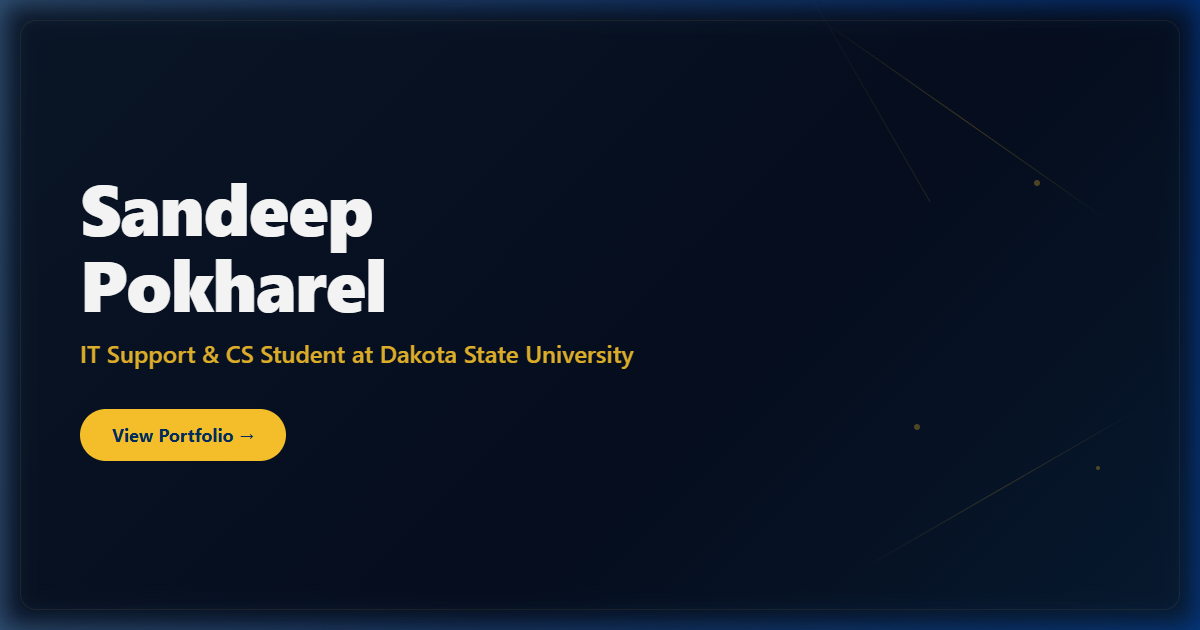
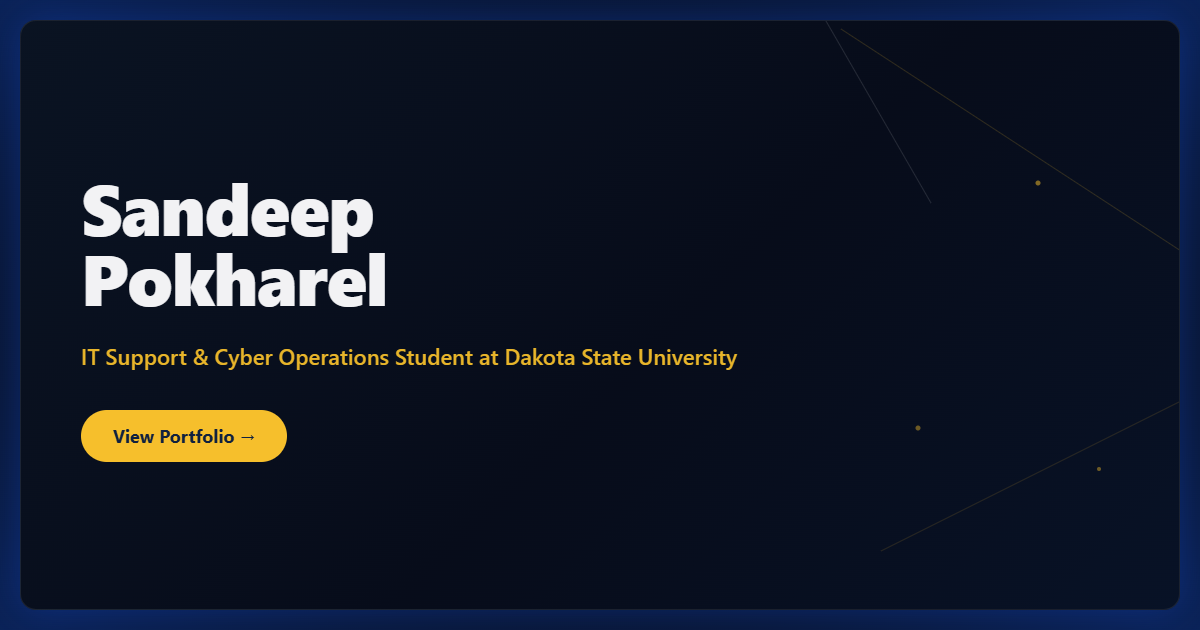
feat(content): switch major to Cyber Operations with Network Security Administration minor
- Degree, bio, hero tagline and education now read B.S. Cyber Operations
  with a minor in Network Security Administration; coursework updated.
- Add a full-width "Security & Networking" skills card and a one-line
  "Security" resume row (Kali, Wireshark, Nmap, Packet Tracer, Metasploit,
  Burp Suite, Splunk, Suricata, Cowrie; Zeek on the web card only).
- Flag that group as coursework so the chatbot does not present it as
  personal-project experience; update the opportunities line.
- Interests, tags, Contact internship copy, page metadata, JSON-LD and the
  Open Graph image updated to match.
- CLAUDE.md: new major, and the coursework exception to the skills rule.

Resume still prints to exactly one page.

diff --git a/src/data/skills.js b/src/data/skills.js
@@ -3,9 +3,21 @@
 //  Sourced from actual project usage across Molecular
 //  Zettelkasten, SandeepCloud, DQA Suite, LLM-Wiki, and
 //  Portfolio. No "learning" labels — these are all used skills.
+//  Exception: "Security & Networking" comes from Cyber Operations
+//  coursework labs, not personal projects. `coursework` makes the
+//  chatbot say so; `wide` renders it full-width so the 3-column
+//  grid has no orphan card.
 // ============================================================
 
 export const skills = [
+  {
+    category: "Security & Networking",
+    icon: "🛡",
+    wide: true,
+    coursework: true,
+    items: ["Kali Linux", "Wireshark", "Nmap", "Cisco Packet Tracer", "Metasploit", "Burp Suite", "Splunk", "Suricata", "Zeek", "Cowrie"],
+    highlight: ["Kali Linux", "Wireshark", "Nmap", "Cowrie"],
+  },
   {
     category: "Languages",
     icon: "⌨",
@@ -45,13 +57,18 @@ export const skills = [
 ];
 
 // ============================================================
-//  DATA — Resume-only Skills (6 strict 1-line categories)
+//  DATA — Resume-only Skills (7 strict 1-line categories)
 //  Used exclusively by ResumeView.jsx.
 // ============================================================
 export const resumeSkills = [
   {
     category: "Languages",
     items: ["JavaScript / TypeScript", "PowerShell", "Python", "Java", "C/C++", "SQL", "HTML / CSS"],
+  },
+  {
+    category: "Security",
+    // Short names keep this row on one line; the web card spells them out.
+    items: ["Kali", "Wireshark", "Nmap", "Packet Tracer", "Metasploit", "Burp Suite", "Splunk", "Suricata", "Cowrie"],
   },
   {
     category: "Tools",
@@ -78,21 +95,21 @@ export const resumeSkills = [
 export const about = {
   name: "Sandeep Pokharel",
   title: "IT Support Desk Technician",
-  subtitle: "Computer Science · Dakota State University",
+  subtitle: "Cyber Operations · Dakota State University",
   bio: [
-    "Computer Science sophomore at Dakota State University, originally from Kathmandu, Nepal. I like building things that work and figuring out why things break.",
+    "Cyber Operations sophomore at Dakota State University, originally from Kathmandu, Nepal. I like building things that work and figuring out why things break.",
     "My day job is IT Support at DSU \u2014 deploying hardware, troubleshooting networks, managing Intune enrollment, and making sure students and faculty can actually get work done. I also run the live broadcasts for DSU athletics and esports — switching cameras, mixing audio, and keeping the stream up while the game is happening. It's hands-on, fast-paced, and I learn something new every shift.",
     "After hours, I build my own infrastructure. Self-hosted cloud storage on AWS, an AI platform that talks to my personal notes, automation tools for the helpdesk \u2014 all containerized, all deployed on servers I manage. The projects section below has the details.",
   ],
   details: [
-    { label: "Education", val: "B.S. Computer Science", sub: "Dakota State University · Fall 2025 to Present" },
+    { label: "Education", val: "B.S. Cyber Operations", sub: "Dakota State University · Fall 2025 to Present" },
     { label: "Current Role", val: "IT Support Desk Technician", sub: "DSU Information Technology Services · May 2026 to Present" },
     { label: "Also At DSU", val: "Multimedia Streaming Technician", sub: "DSU Information Technology Services · August 2026 to Present" },
     { label: "Location", val: "Madison, South Dakota", sub: "Originally from Kathmandu, Nepal" },
     { label: "Languages", val: "English · Nepali · Hindi", sub: "Trilingual" },
-    { label: "Interests", val: "Web Development · Cloud · AI", sub: "Building and shipping personal projects" },
+    { label: "Interests", val: "DevOps · Cloud · DevSecOps · SOC · AI · Network Engineering", sub: "Career focus areas" },
   ],
-  tags: ["Problem Solver", "IT Support", "Self-Taught Builder", "Cloud Enthusiast", "Fast Learner", "Cross-Cultural Communicator"],
+  tags: ["Problem Solver", "IT Support", "Security-Minded", "Self-Taught Builder", "Cloud Enthusiast", "Fast Learner", "Cross-Cultural Communicator"],
   contact: {
     email: "pokharelsandeep333@gmail.com",
     linkedin: "https://www.linkedin.com/in/sandeeppokharel333",
@@ -151,13 +168,13 @@ export const experience = [
 // ============================================================
 export const education = [
   {
-    degree: "B.S. Computer Science",
+    degree: "B.S. Cyber Operations",
     school: "Dakota State University",
     period: "Fall 2025 to Present",
     location: "Madison, SD",
     bullets: [
-      "Pursuing a B.S. in Computer Science with a minor in Mathematics (4.0 GPA), focused on cloud and AI.",
-      "Relevant Coursework: Software Engineering, AI, Data Structures, OOP, Systems Analysis & Design, Calculus",
+      "Pursuing a B.S. in Cyber Operations with a minor in Network Security Administration, maintaining a 4.0 GPA, with interests in DevOps, cloud, DevSecOps, security operations (SOC), AI, and network engineering.",
+      "Relevant Coursework: Networking, Reverse Engineering, Malware Analysis, Routing and Switching, Windows and Linux Administration, Operating Environments",
     ],
   },
 ];

diff --git a/index.html b/index.html
@@ -4,11 +4,11 @@
     <meta charset="UTF-8" />
     <link rel="icon" type="image/svg+xml" href="/favicon.svg" />
     <meta name="viewport" content="width=device-width, initial-scale=1.0" />
-    <meta name="description" content="Sandeep Pokharel — IT Support Technician & CS Student at DSU. Portfolio showcasing projects in PowerShell, Python ML, and IT systems." />
-    <meta name="keywords" content="Sandeep Pokharel, DSU, Dakota State University, IT Support, PowerShell, Python, Portfolio, CS Student" />
+    <meta name="description" content="Sandeep Pokharel — IT Support Technician & Cyber Operations Student at DSU. Portfolio showcasing projects in cloud infrastructure, secure CI/CD, PowerShell automation, and AI." />
+    <meta name="keywords" content="Sandeep Pokharel, DSU, Dakota State University, IT Support, PowerShell, Python, Portfolio, Cyber Operations, Network Security, Cybersecurity, DevSecOps, SOC, Cloud, DevOps" />
     <meta name="author" content="Sandeep Pokharel" />
-    <meta property="og:title" content="Sandeep Pokharel | IT Support & CS Student Portfolio" />
-    <meta property="og:description" content="IT Support Technician & CS Student at Dakota State University. Building systems that improve operational efficiency." />
+    <meta property="og:title" content="Sandeep Pokharel | IT Support & Cyber Ops Student Portfolio" />
+    <meta property="og:description" content="IT Support Technician & Cyber Operations Student at Dakota State University. Building secure cloud infrastructure and IT automation tools." />
     <meta property="og:site_name" content="Sandeep Pokharel Portfolio" />
     <meta property="og:type" content="website" />
     <meta property="og:image" content="https://portfolio.sandeeppokharel.com.np/og-image.png" />
@@ -17,14 +17,14 @@
     <link rel="preconnect" href="https://fonts.googleapis.com" />
     <link rel="preconnect" href="https://fonts.gstatic.com" crossorigin />
     <link href="https://fonts.googleapis.com/css2?family=Outfit:wght@300;400;500;600;700;800&family=Inter:wght@300;400;500;600&display=swap" rel="stylesheet" />
-    <title>Sandeep Pokharel | IT Support & CS Student Portfolio</title>
+    <title>Sandeep Pokharel | IT Support & Cyber Ops Student Portfolio</title>
     <script type="application/ld+json">
     {
       "@context": "https://schema.org",
       "@type": "Person",
       "name": "Sandeep Pokharel",
       "jobTitle": "IT Support Desk Technician",
-      "description": "Computer Science student at Dakota State University. IT Support Technician building automation tools and exploring ML/AI.",
+      "description": "Cyber Operations student at Dakota State University, minoring in Network Security Administration. IT Support Technician building secure cloud infrastructure, IT automation tools, and AI projects.",
       "url": "https://portfolio.sandeeppokharel.com.np/",
       "email": "pokharelsandeep333@gmail.com",
       "sameAs": [
@@ -36,7 +36,7 @@
         "name": "Dakota State University",
         "url": "https://dsu.edu"
       },
-      "knowsAbout": ["PowerShell", "Python", "IT Support", "WPF", "Machine Learning"]
+      "knowsAbout": ["Cybersecurity", "Network Security", "DevSecOps", "Cloud Infrastructure", "AWS", "Docker", "PowerShell", "Python", "IT Support", "Machine Learning"]
     }
     </script>
   </head>

diff --git a/api/chat.js b/api/chat.js
@@ -37,7 +37,14 @@ const buildEducation = () =>
     .join('\n');
 
 const buildSkills = () =>
-  skills.map((group) => `- ${group.category}: ${list(group.items)}`).join('\n');
+  skills
+    .map((group) => {
+      const source = group.coursework
+        ? ' (used in Cyber Operations coursework labs, not in my personal projects)'
+        : '';
+      return `- ${group.category}${source}: ${list(group.items)}`;
+    })
+    .join('\n');
 
 const buildProjects = () =>
   projects
@@ -82,7 +89,7 @@ HOW TO ANSWER
 
 WHAT YOU MAY SHARE
 - Everything in the facts below: my roles, projects, skills, education, GPA, coursework, and the public links.
-- That I am open to internship and part-time software and IT opportunities, and how to reach me.
+- That I am open to internship and part-time opportunities in IT, security operations (SOC), DevSecOps, cloud and DevOps, and network engineering, and how to reach me.
 
 WHAT TO DEFER
 - Work authorization, visa or immigration status, salary or compensation expectations, and anything personal (family, finances, health, relationships).

diff --git a/src/components/Hero.jsx b/src/components/Hero.jsx
@@ -168,7 +168,7 @@ export default function Hero({ onToggleTerminal }) {
 
       <div ref={contentRef} className="hero-content flex flex-col items-start text-left">
         <p className="section-label justify-start mb-3 sm:mb-4">
-          IT Support Desk · CS @ DSU · Madison, SD
+          IT Support Desk · Cyber Ops @ DSU · Madison, SD
         </p>
 
         <h1 className="hero-name font-outfit font-black text-white leading-none mb-2">
@@ -186,7 +186,7 @@ export default function Hero({ onToggleTerminal }) {
         </h1>
 
         <p className="hero-tagline font-inter text-white/65 mt-4 mb-8 sm:mt-5 sm:mb-10 max-w-xl leading-relaxed">
-          IT Support Technician by day, building web apps and cloud infrastructure by night.
+          IT Support Technician by day, building secure web apps and cloud infrastructure by night.
         </p>
 
         <div className="hero-ctas flex flex-wrap gap-3 sm:gap-4 mt-2 justify-start">

diff --git a/src/components/Contact.jsx b/src/components/Contact.jsx
@@ -121,8 +121,9 @@ export default function Contact() {
           <p className="section-label">Contact</p>
           <h2 className="section-heading">Let's <span>connect</span></h2>
           <p className="font-inter text-white/45 text-base mt-3 max-w-lg">
-            I am actively looking for summer internships in Software Engineering and ML/AI
-            research. If you're working on something interesting, I'd love to hear about it.
+            I am actively looking for internships in SOC analysis, DevSecOps, cloud and
+            DevOps, and network engineering. If you're working on something interesting,
+            I'd love to hear about it.
           </p>
         </div>
 

diff --git a/src/components/Skills.jsx b/src/components/Skills.jsx
@@ -60,7 +60,10 @@ export default function Skills() {
           className="grid grid-cols-1 sm:grid-cols-2 lg:grid-cols-3 gap-5"
         >
           {skills.map((group) => (
-            <div key={group.category} className="glass-card p-6 sm:p-8">
+            <div
+              key={group.category}
+              className={`glass-card p-6 sm:p-8 ${group.wide ? 'sm:col-span-2 lg:col-span-3' : ''}`}
+            >
               {/* Icon + category header */}
               <div className="flex items-center gap-3 mb-5">
                 <span className="text-2xl" aria-hidden="true">{group.icon}</span>

diff --git a/CLAUDE.md b/CLAUDE.md
@@ -107,10 +107,10 @@ Server-side guards: 10 req/min per IP via Upstash Redis sliding window, `maxOutp
 
 `.agents/AGENTS.md` (gitignored, present locally) is the source of truth for what this portfolio may claim. The rules that most often matter:
 
-- Sandeep is an **IT Support Desk Technician** at DSU ITS and a CS sophomore. Do not inflate the title to "Full Stack Developer" or "Cloud Engineer" anywhere in the bio or resume.
+- Sandeep is an **IT Support Desk Technician** at DSU ITS and a Cyber Operations sophomore (minor in Network Security Administration). Do not inflate the title to "Full Stack Developer" or "Cloud Engineer" anywhere in the bio or resume.
 - Only shipped, production-grade personal projects. No planned work, no academic group projects.
 - Banned AI-fluff vocabulary — *leveraging, seamlessly, fostering, delving, synergizing, tapestry, unlocking, spearheading*. Use direct action verbs (Built, Deployed, Architected, Configured, Engineered) and name concrete tools. The same ban is encoded in the system prompt in `api/chat.js`.
-- Skills listed must be ones actually used in those projects; no "learning" labels.
+- Skills listed must be ones actually used in those projects; no "learning" labels. The one exception is the "Security & Networking" category (resume row "Security"), which lists tools from Cyber Operations coursework labs.
 
 ## Resume printing is a hard constraint
 
